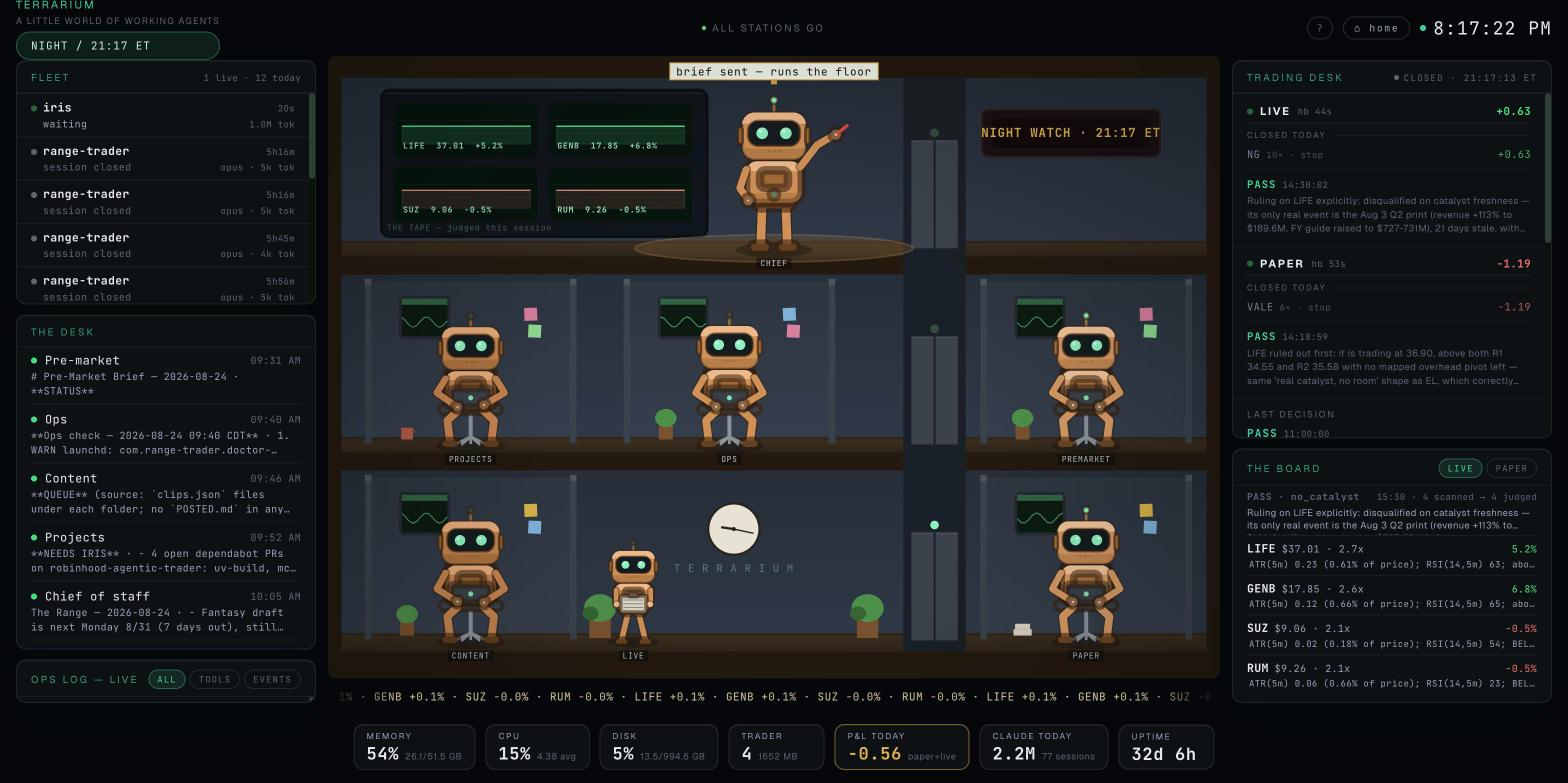
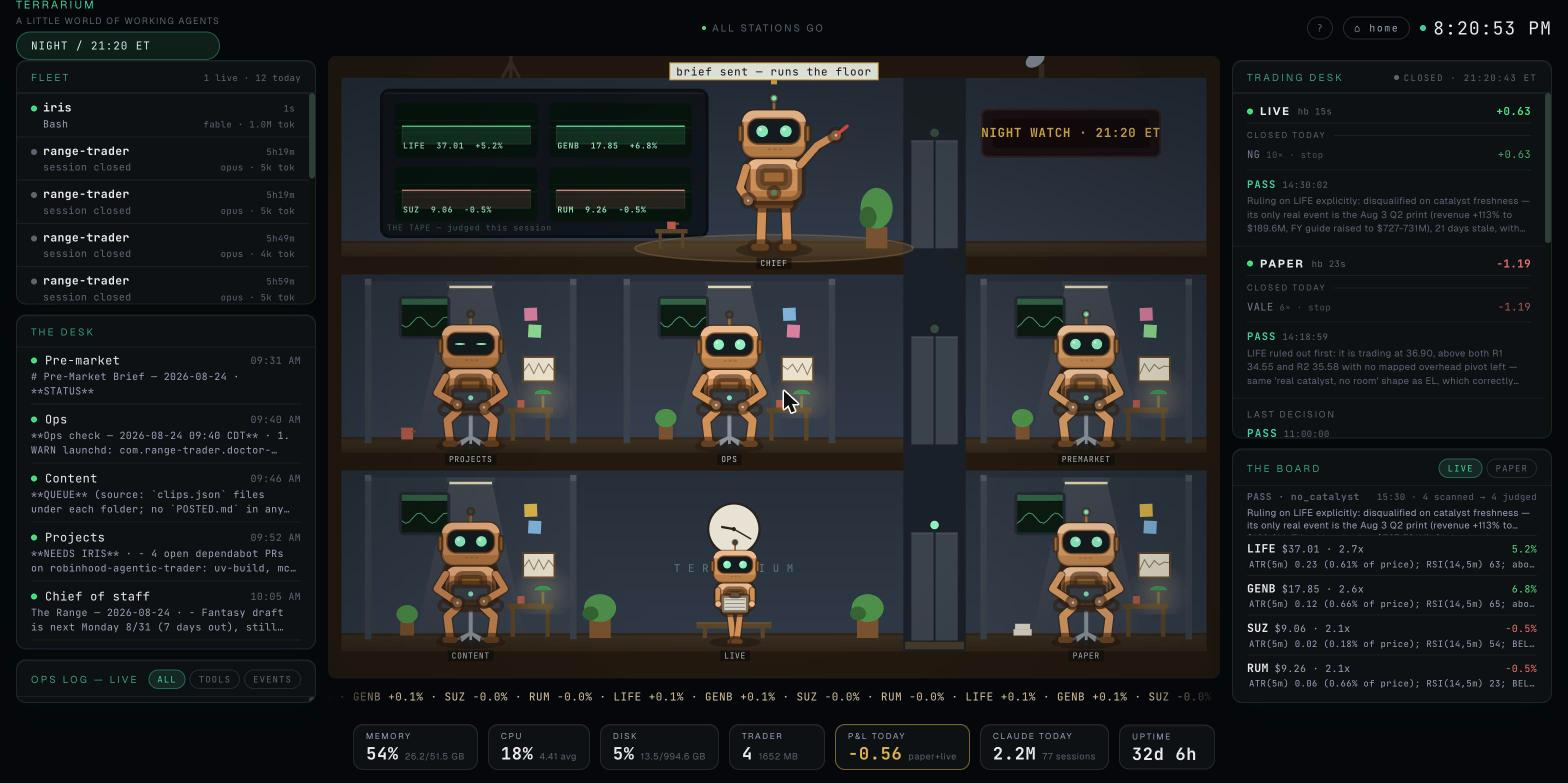
Furnishing pass: the building feels lived-in
- Per office: ceiling light strip with a soft cone when occupied, a side
  desk with a warm banker lamp (lit while its robot works) and a mug,
  and framed chart art on the wall.
- Chief's floor gains a ficus and a coffee side table; the lobby gets a
  bench under the clock and a doormat at the elevator.
- Roof furniture: beacon mast (blinking) and a small satellite dish.
- Fresh hero.

diff --git a/frontend/src/components/RangeFloor.tsx b/frontend/src/components/RangeFloor.tsx
@@ -566,6 +566,27 @@ export default function RangeFloor() {
       ctx.fillRect(X(0), Y(0), dw * 0.015, dh)
       ctx.fillRect(X(0.985), Y(0), dw * 0.015, dh)
 
+      // roof furniture: mast with beacon, small dish
+      {
+        const rx = X(0.205), ry = Y(F3.top)
+        ctx.strokeStyle = '#3a3128'
+        ctx.lineWidth = Math.max(1.5, S * 0.006)
+        ctx.beginPath(); ctx.moveTo(rx, ry); ctx.lineTo(rx, ry - S * 0.055); ctx.stroke()
+        ctx.beginPath(); ctx.moveTo(rx - S * 0.016, ry); ctx.lineTo(rx, ry - S * 0.030); ctx.stroke()
+        ctx.beginPath(); ctx.moveTo(rx + S * 0.016, ry); ctx.lineTo(rx, ry - S * 0.030); ctx.stroke()
+        const on = Math.floor(now / 1100) % 2 === 0
+        ctx.fillStyle = on ? '#f0716a' : '#4a3a38'
+        ctx.beginPath(); ctx.arc(rx, ry - S * 0.062, S * 0.009, 0, Math.PI * 2); ctx.fill()
+        const dxx = X(0.80), dyy = Y(F3.top)
+        ctx.fillStyle = '#3a3128'
+        ctx.fillRect(dxx - S * 0.005, dyy - S * 0.026, S * 0.010, S * 0.026)
+        ctx.fillStyle = '#8a939c'
+        ctx.beginPath()
+        ctx.ellipse(dxx - S * 0.012, dyy - S * 0.034, S * 0.020, S * 0.013, -0.6, 0, Math.PI * 2)
+        ctx.fill()
+        ctx.strokeStyle = 'rgba(0,0,0,0.3)'; ctx.lineWidth = 1; ctx.stroke()
+      }
+
       // elevator shaft through all floors
       {
         ctx.fillStyle = '#1a2026'
@@ -618,6 +639,27 @@ export default function RangeFloor() {
       ctx.strokeStyle = 'rgba(200,160,100,0.25)'
       ctx.lineWidth = 1.5
       ctx.stroke()
+      // chief's ficus and coffee table
+      {
+        const fx2 = X(0.615), fy2 = Y(F3.ground - 0.006)
+        ctx.fillStyle = '#7a5230'
+        ctx.fillRect(fx2 - S * 0.020, fy2 - S * 0.040, S * 0.040, S * 0.040)
+        ctx.fillStyle = '#4f8f4a'
+        ctx.beginPath(); ctx.ellipse(fx2, fy2 - S * 0.075, S * 0.030, S * 0.038, 0, 0, Math.PI * 2); ctx.fill()
+        ctx.fillStyle = '#356534'
+        ctx.beginPath(); ctx.ellipse(fx2 - S * 0.016, fy2 - S * 0.058, S * 0.016, S * 0.020, 0, 0, Math.PI * 2); ctx.fill()
+        const tx2 = X(0.385), ty2 = Y(F3.ground - 0.006)
+        ctx.fillStyle = '#5a4428'
+        ctx.fillRect(tx2 - S * 0.030, ty2 - S * 0.036, S * 0.060, S * 0.008)
+        ctx.fillRect(tx2 - S * 0.024, ty2 - S * 0.028, S * 0.006, S * 0.028)
+        ctx.fillRect(tx2 + S * 0.018, ty2 - S * 0.028, S * 0.006, S * 0.028)
+        ctx.fillStyle = '#b45a4a'
+        ctx.fillRect(tx2 - S * 0.008, ty2 - S * 0.052, S * 0.016, S * 0.016)
+        ctx.fillStyle = '#8a4536'
+        ctx.fillRect(tx2 + S * 0.008, ty2 - S * 0.048, S * 0.006, S * 0.004)
+      }
+
+      const stations = stationsFrom(seats, trading, fleet)
 
       // ── offices: a room of one's own ──
       const cubTint = room.wash ? 'rgba(255,255,255,0.045)' : 'rgba(255,255,255,0.03)'
@@ -665,6 +707,77 @@ export default function RangeFloor() {
         }
       }
 
+      // office cosmetics — light strips, wall art, side desks
+      for (const bay of BAYS) {
+        const st = stations.find(s => s.key === bay.key)
+        const occupied = !!st && st.present && !st.down
+        // ceiling light strip + soft cone when someone's in
+        const lx = X(bay.x)
+        ctx.fillStyle = '#39424c'
+        ctx.fillRect(lx - S * 0.045, Y(bay.top + 0.012), S * 0.090, dh * 0.008)
+        ctx.fillStyle = occupied ? 'rgba(255,240,200,0.85)' : 'rgba(120,130,140,0.5)'
+        ctx.fillRect(lx - S * 0.040, Y(bay.top + 0.019), S * 0.080, dh * 0.004)
+        if (occupied) {
+          const cone = ctx.createLinearGradient(0, Y(bay.top + 0.02), 0, Y(bay.ground))
+          cone.addColorStop(0, 'rgba(255,240,200,0.10)')
+          cone.addColorStop(1, 'rgba(255,240,200,0)')
+          ctx.fillStyle = cone
+          ctx.beginPath()
+          ctx.moveTo(lx - S * 0.040, Y(bay.top + 0.022))
+          ctx.lineTo(lx + S * 0.040, Y(bay.top + 0.022))
+          ctx.lineTo(lx + S * 0.105, Y(bay.ground))
+          ctx.lineTo(lx - S * 0.105, Y(bay.ground))
+          ctx.closePath()
+          ctx.fill()
+        }
+        // framed wall art: tiny seeded chart doodle
+        {
+          const fx3 = X(bay.x + bay.half * 0.52), fy3 = Y(bay.top + 0.135)
+          const fw = S * 0.055, fh = S * 0.042
+          ctx.fillStyle = '#5a4428'
+          ctx.fillRect(fx3 - 2, fy3 - 2, fw + 4, fh + 4)
+          ctx.fillStyle = '#e8e2d0'
+          ctx.fillRect(fx3, fy3, fw, fh)
+          ctx.strokeStyle = '#8a7a5a'
+          ctx.lineWidth = 1
+          ctx.beginPath()
+          for (let i = 0; i <= 6; i++) {
+            const sx2 = fx3 + (i / 6) * fw
+            const sy2 = fy3 + fh * (0.75 - 0.5 * Math.abs(Math.sin(bay.x * 37 + i * 1.7)))
+            i === 0 ? ctx.moveTo(sx2, sy2) : ctx.lineTo(sx2, sy2)
+          }
+          ctx.stroke()
+        }
+        // side desk with lamp and mug (opposite the floor accessory)
+        {
+          const dxc = X(bay.x + bay.half * 0.58), dyg = Y(bay.ground - 0.012)
+          const dwj = S * 0.085, dhj = S * 0.062
+          ctx.fillStyle = '#5a4428'
+          ctx.fillRect(dxc - dwj / 2, dyg - dhj, dwj, S * 0.010)
+          ctx.fillRect(dxc - dwj / 2 + S * 0.006, dyg - dhj + S * 0.010, S * 0.008, dhj - S * 0.010)
+          ctx.fillRect(dxc + dwj / 2 - S * 0.014, dyg - dhj + S * 0.010, S * 0.008, dhj - S * 0.010)
+          // warm desk lamp, lit with the office
+          const lx2 = dxc + dwj * 0.28, ly2 = dyg - dhj
+          if (occupied) {
+            const glow = ctx.createRadialGradient(lx2, ly2 - S * 0.02, 1, lx2, ly2 - S * 0.02, S * 0.06)
+            glow.addColorStop(0, 'rgba(255,220,150,0.22)')
+            glow.addColorStop(1, 'rgba(255,220,150,0)')
+            ctx.fillStyle = glow
+            ctx.fillRect(lx2 - S * 0.06, ly2 - S * 0.08, S * 0.12, S * 0.10)
+          }
+          ctx.strokeStyle = '#8a7a4a'
+          ctx.lineWidth = Math.max(1, S * 0.005)
+          ctx.beginPath(); ctx.moveTo(lx2, ly2); ctx.lineTo(lx2, ly2 - S * 0.022); ctx.stroke()
+          ctx.fillStyle = '#3f9a52'
+          ctx.beginPath()
+          ctx.ellipse(lx2, ly2 - S * 0.025, S * 0.016, S * 0.008, 0, Math.PI, 0)
+          ctx.fill()
+          // mug
+          ctx.fillStyle = '#b45a4a'
+          ctx.fillRect(dxc - dwj * 0.28, ly2 - S * 0.014, S * 0.013, S * 0.014)
+        }
+      }
+
       // ── floor 1 lobby: wall clock, house letters, bench plants ──
       {
         const cx = X(CLOCK.x), cy = Y(CLOCK.y), r = S * CLOCK.r
@@ -690,6 +803,19 @@ export default function RangeFloor() {
         ctx.textAlign = 'center'
         ctx.fillText('T E R R A R I U M', cx, cy + r + S * 0.032)
         ctx.textAlign = 'left'
+      }
+      // lobby bench under the clock + elevator doormat
+      {
+        const bx2 = X(CLOCK.x), by2 = Y(F1.ground - 0.010)
+        ctx.fillStyle = '#5a4428'
+        ctx.fillRect(bx2 - S * 0.070, by2 - S * 0.030, S * 0.140, S * 0.012)
+        ctx.fillRect(bx2 - S * 0.058, by2 - S * 0.018, S * 0.008, S * 0.018)
+        ctx.fillRect(bx2 + S * 0.050, by2 - S * 0.018, S * 0.008, S * 0.018)
+        ctx.fillStyle = 'rgba(255,255,255,0.06)'
+        ctx.fillRect(bx2 - S * 0.070, by2 - S * 0.030, S * 0.140, S * 0.004)
+        const mx2 = X((SHAFT.x0 + SHAFT.x1) / 2)
+        ctx.fillStyle = 'rgba(120,90,50,0.45)'
+        ctx.fillRect(mx2 - S * 0.055, Y(F1.ground - 0.004), S * 0.110, dh * 0.012)
       }
       for (const fx of [0.305, 0.605]) {
         const px2 = X(fx), py2 = Y(F1.ground - 0.010)
@@ -740,7 +866,6 @@ export default function RangeFloor() {
       }
 
       // ── the cast ──
-      const stations = stationsFrom(seats, trading, fleet)
 
       // bay monitors — each office's screen glows with its robot's status
       for (const bay of BAYS) {
